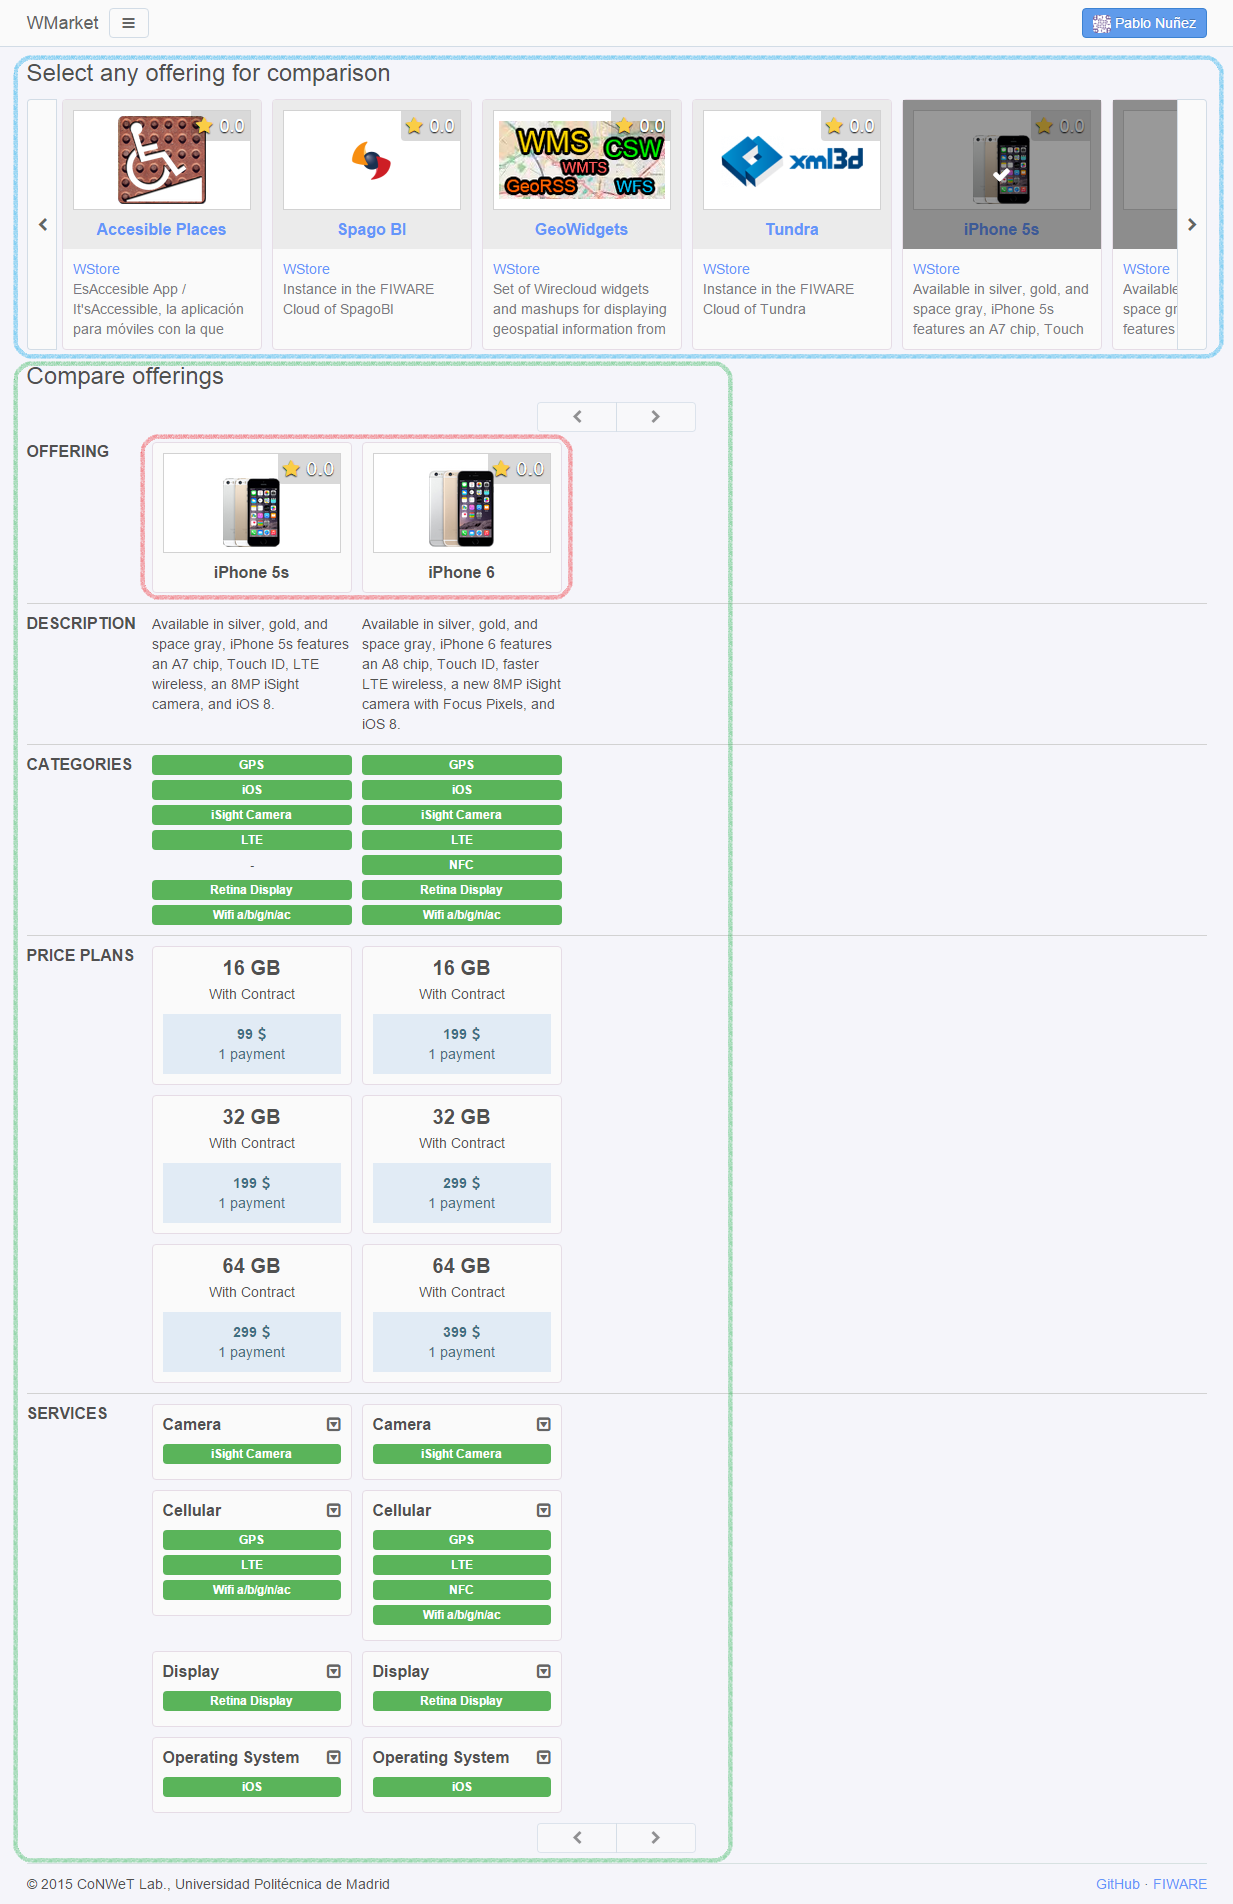
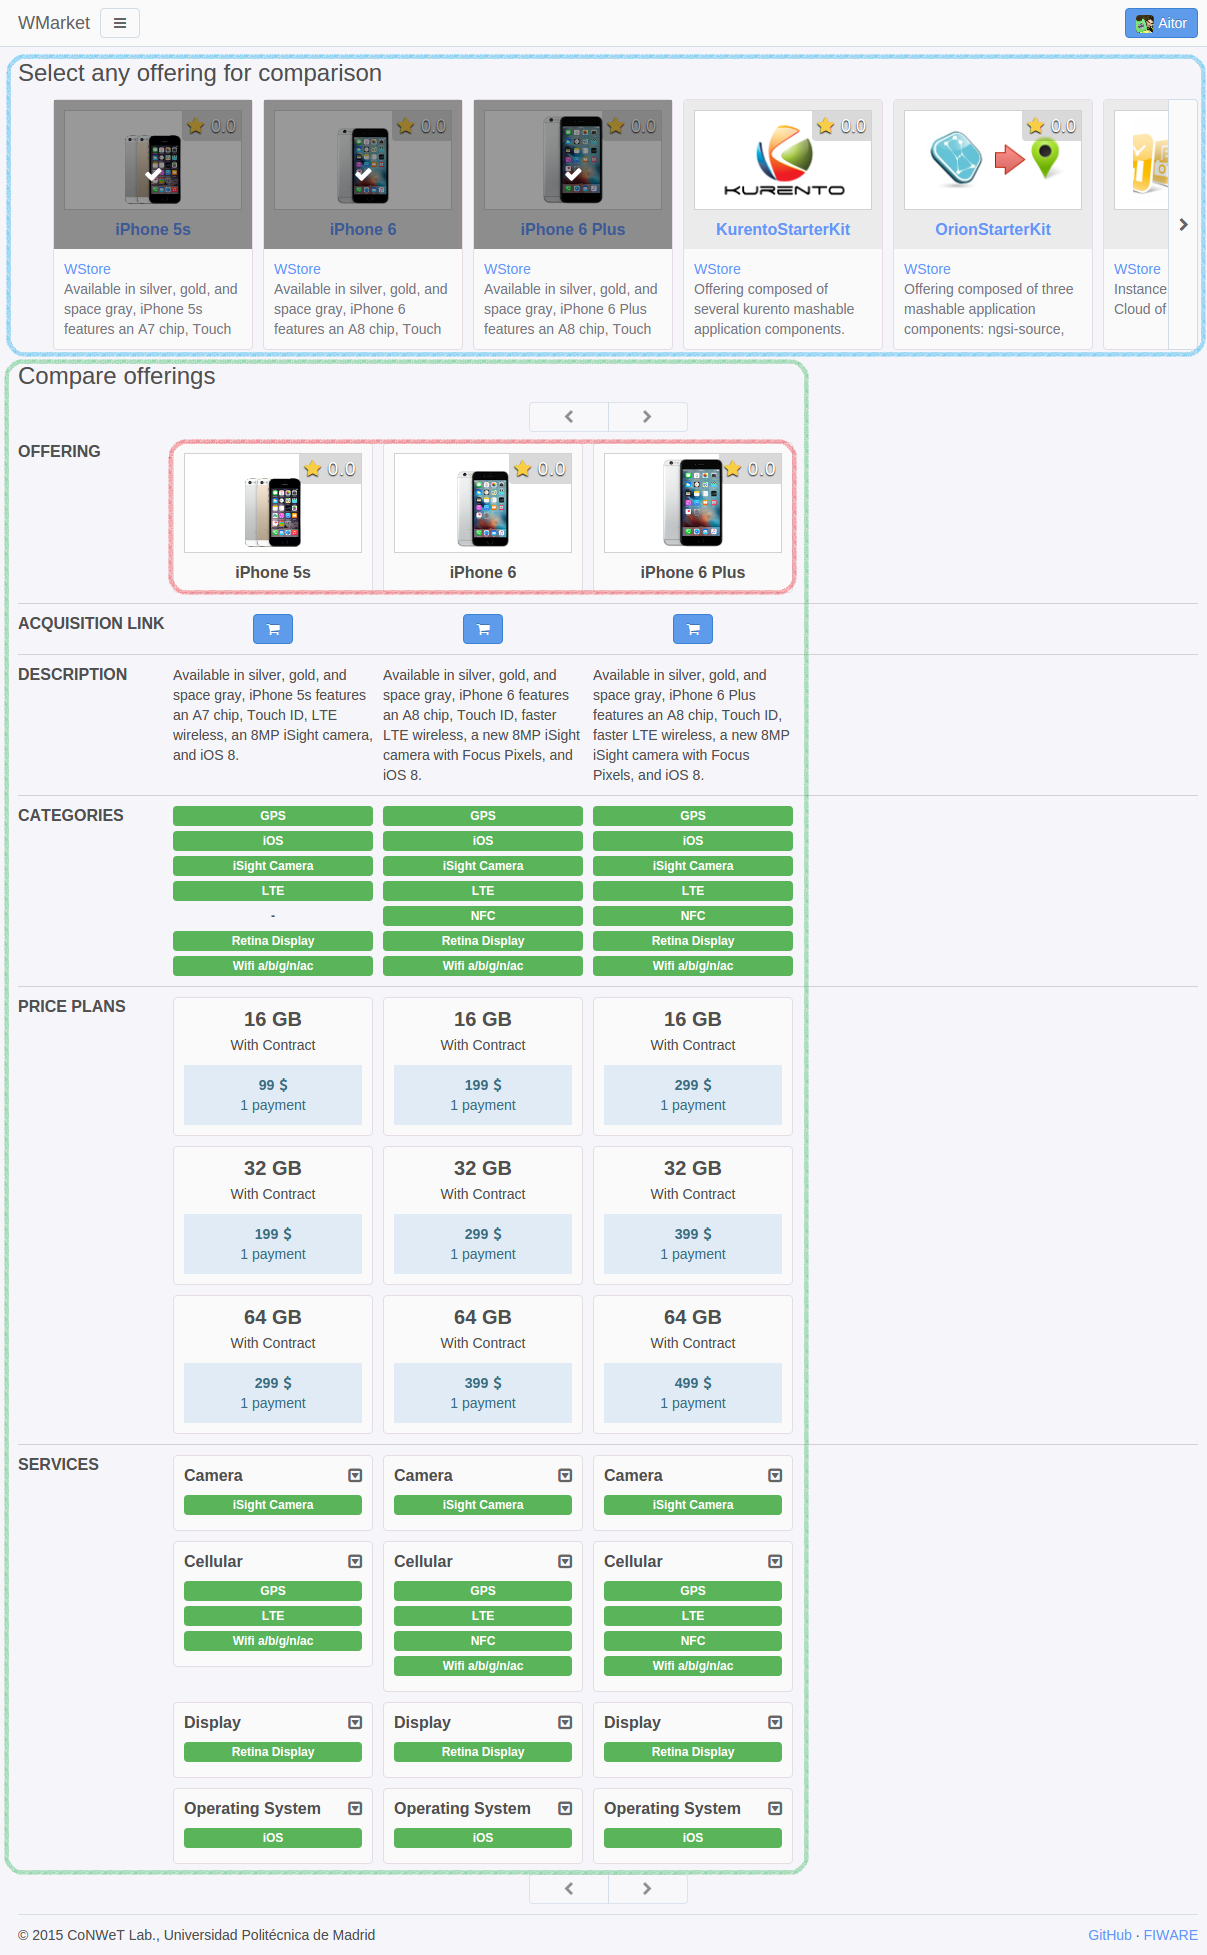
Include Acquisition button into User Guide

Changed region(s): [[0.0, 0.0, 1.0, 0.9916], [0.889, 0.9606, 0.9809, 0.9916]]

diff --git a/doc/user-guide.rst b/doc/user-guide.rst
@@ -181,7 +181,10 @@ This page is divided in different zones:
 * The **blue box** contains the reviews mage by users.
 * The **green box** contains all the actions that you can do with the offering:
   view its price plans, view its services or add it you to your bookmarks. 
-* The **black box** can be used to review the offering. 
+* The stars indicated by the **black arrow** can be used to review the 
+  offering.
+* The button indicated by the **purple arrow** will open in a new window (or 
+  tab) the Store page where the offering can be acquired.
 
 To view all the price plans included in an offering, just click the **Price 
 Plans** button. 
@@ -276,11 +279,13 @@ one contained in the red rectangle).
 
 The comparison will show you:
 
+* The name and the image of each offering.
+* A link to acquire each offering.
 * The description of each offering.
 * The categories of each offering. Categories will be ordered and aligned in 
   order to highlight the difference of categories between the compared 
   offerings.
-* The price plans of each offering.
+* The price plans of each offering (ordered alphabetically).
 * The services of each offering. Services will be ordered and aligned in order
   to highlight the difference of services between the different offerings.
 
